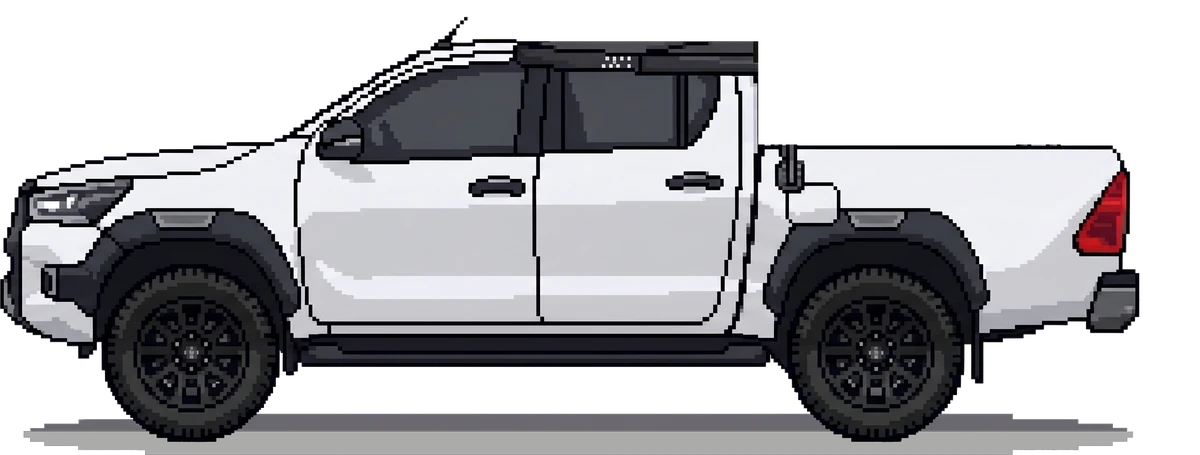
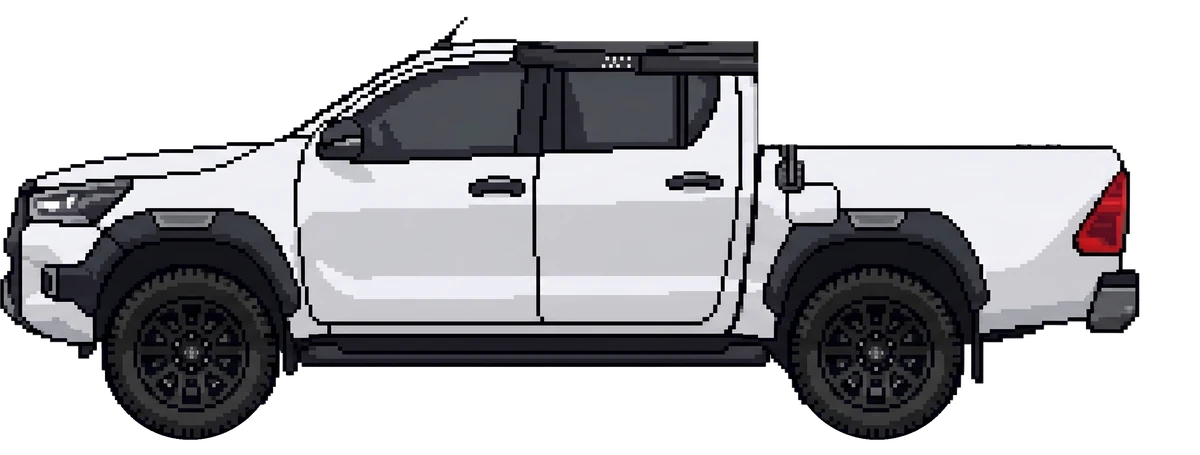
Clean truck shadow; animated sun/moon theme switch
Claude-Session: https://claude.ai/code/session_018MR4xDhWGmSpk8zhGT7tLL

Changed region(s): [[0.0, 0.8923, 0.9558, 1.0]]

diff --git a/src/scripts/scene.ts b/src/scripts/scene.ts
@@ -1,7 +1,7 @@
 // The hero scene: grass, road and Kinabalu (the Hilux itself is an <img> over the canvas, see Hero.astro), day or night. 180×98 canvas, 140ms stepped frames.
 import { Grid } from '../lib/pixel';
 import { cup, pine } from '../lib/sprites';
-import { css, isNight } from './theme';
+import { isNight } from './theme';
 
 const ridge = [[52, 92], [70, 72], [84, 58], [94, 60], [102, 44], [110, 48], [116, 34], [122, 40], [128, 28], [134, 36], [140, 26], [146, 33], [152, 30], [160, 42], [170, 38], [180, 52], [196, 58], [214, 70], [240, 76]];
 const heightAt = (x: number) => {
@@ -16,7 +16,7 @@ const stars = Array.from({ length: 40 }, (_, i) => [(i * 53) % 240, 18 + ((i * 2
 
 export function initScene(canvas: HTMLCanvasElement | null) {
   const sx = canvas?.getContext('2d');
-  if (!canvas || !sx) return { redraw() {} };
+  if (!canvas || !sx) return { redraw() {}, setNight(_n: boolean) {} };
   const reduce = matchMedia('(prefers-reduced-motion: reduce)').matches;
   const p1 = pine(12, '#2b5615', '#244a12'), p2 = pine(9, '#4f7a2c', '#2b5615');
   p1.outline('#12120d'); p2.outline('#12120d');
@@ -30,36 +30,51 @@ export function initScene(canvas: HTMLCanvasElement | null) {
     g.draw(sx!, Math.round(x), Math.round(y));
   }
 
+  // Day ↔ night blend: 0 = day, 1 = night. Switching theme animates it: the sun sinks behind the
+  // mountain, then the moon rises, while the sky and ground colours fade across.
+  let t = isNight() ? 1 : 0;
+  let anim = 0;
+  const mix = (a: string, b: string) => {
+    const pa = parseInt(a.slice(1), 16), pb = parseInt(b.slice(1), 16);
+    const ch = (sh: number) => Math.round(((pa >> sh) & 255) * (1 - t) + ((pb >> sh) & 255) * t);
+    return `rgb(${ch(16)},${ch(8)},${ch(0)})`;
+  };
+  const ease = (v: number) => v * v * (3 - 2 * v);
+
   function draw() {
     const ctx = sx!;
-    const night = isNight(); const W = 240, H = 120;
+    const W = 240, H = 120;
     ctx.setTransform(1, 0, 0, 1, -40, -18);
-    ctx.fillStyle = css('sky'); ctx.fillRect(0, 0, W, H);
-    if (night) {
-      ctx.fillStyle = '#f4ebcd'; stars.forEach(([x, y], i) => { if ((i + (frame >> 3)) % 7) ctx.fillRect(x, y, 1, 1); });
-      const m = Grid(14, 14); m.disc(7, 7, 6, '#f4ebcd'); m.disc(10, 5, 5, null); m.draw(ctx, 48, 22);
+    ctx.fillStyle = mix('#8ad8d8', '#1f2b45'); ctx.fillRect(0, 0, W, H);
+    // stars fade in late
+    if (t > 0.6) { ctx.fillStyle = `rgba(244,235,205,${((t - 0.6) / 0.4).toFixed(2)})`; stars.forEach(([x, y], i) => { if ((i + (frame >> 3)) % 7) ctx.fillRect(x, y, 1, 1); }); }
+    // sun sets during the first half, moon rises in the second (both slip behind the hills)
+    if (t < 0.5) {
+      const dy = Math.round(ease(t / 0.5) * 80);
+      const s2 = Grid(22, 22); s2.disc(11, 11, 5, '#f2c94c');
+      [[11, 1], [11, 2], [11, 20], [11, 19], [1, 11], [2, 11], [20, 11], [19, 11], [4, 4], [18, 4], [4, 18], [18, 18]].forEach(([x, y]) => s2.set(x, y, '#f2c94c'));
+      s2.draw(ctx, 42, 18 + dy);
     } else {
-      const s = Grid(22, 22); s.disc(11, 11, 5, '#f2c94c');
-      [[11, 1], [11, 2], [11, 20], [11, 19], [1, 11], [2, 11], [20, 11], [19, 11], [4, 4], [18, 4], [4, 18], [18, 18]].forEach(([x, y]) => s.set(x, y, '#f2c94c'));
-      s.draw(ctx, 42, 18);
+      const dy = Math.round((1 - ease((t - 0.5) / 0.5)) * 80);
+      const m = Grid(14, 14); m.disc(7, 7, 6, '#f4ebcd'); m.disc(10, 5, 5, null); m.draw(ctx, 48, 22 + dy);
     }
-    clouds.forEach(([x, y, sp]) => cloud(((x + frame * sp * 0.25) % 280) - 30, y, night ? '#3a4a66' : '#f0f8f0'));
+    clouds.forEach(([x, y, sp]) => cloud(((x + frame * sp * 0.25) % 280) - 30, y, mix('#f0f8f0', '#3a4a66')));
     // mountain
-    const mt = css('slate');
+    const mt = mix('#455976', '#3c4c68');
     for (let x = 52; x < W; x++) { const h = heightAt(x); ctx.fillStyle = mt; ctx.fillRect(x, h, 1, 96 - h); ctx.fillStyle = '#12120d'; ctx.fillRect(x, h, 1, 1); }
-    ctx.fillStyle = night ? '#2d3a52' : '#5d7194';
+    ctx.fillStyle = mix('#5d7194', '#2d3a52');
     [[100, 52, 10], [126, 38, 8], [148, 40, 10], [172, 50, 9]].forEach(([x, y, l]) => { for (let i = 0; i < l; i++) ctx.fillRect(x + (i >> 1), y + i, 1, 1); });
     // cloud band at the mountain base
-    ctx.fillStyle = night ? '#3a4a66' : '#f0f8f0';
+    ctx.fillStyle = mix('#f0f8f0', '#3a4a66');
     for (let x = 40; x < W; x++) { const y = 82 + Math.round(Math.sin(x / 7) * 2); ctx.fillRect(x, y, 1, 8); }
     // tree line
     [[36, 76], [46, 80], [184, 79], [196, 74], [208, 80]].forEach(([x, y], i) => (i % 2 ? p2 : p1).draw(ctx, x, y));
     // ground, road
-    ctx.fillStyle = night ? '#4c5f2c' : '#7fae45'; ctx.fillRect(0, 92, W, 28);
-    ctx.fillStyle = night ? '#3a4a22' : '#66882d';
+    ctx.fillStyle = mix('#7fae45', '#4c5f2c'); ctx.fillRect(0, 92, W, 28);
+    ctx.fillStyle = mix('#66882d', '#3a4a22');
     for (let i = 0; i < 70; i++) { const x = (i * 37) % W, y = 95 + ((i * 11) % 24); ctx.fillRect(x, y, 1, 2); ctx.fillRect(x + 1, y + 1, 1, 1); }
-    ctx.fillStyle = night ? '#5a4632' : '#c9a27a'; ctx.fillRect(0, 108, W, 6);
-    ctx.fillStyle = night ? '#4a3a2a' : '#b08560'; for (let x = 0; x < W; x += 9) ctx.fillRect(x, 110, 4, 1);
+    ctx.fillStyle = mix('#c9a27a', '#5a4632'); ctx.fillRect(0, 108, W, 6);
+    ctx.fillStyle = mix('#b08560', '#4a3a2a'); for (let x = 0; x < W; x += 9) ctx.fillRect(x, 110, 4, 1);
     ctx.fillStyle = '#12120d'; ctx.fillRect(0, 92, W, 1);
     sign.draw(ctx, 70, 96);
     stool.draw(ctx, 172, 99); stool.draw(ctx, 186, 101);
@@ -68,5 +83,18 @@ export function initScene(canvas: HTMLCanvasElement | null) {
 
   draw();
   if (!reduce) setInterval(() => { frame++; draw(); }, 140);
-  return { redraw: draw };
+  /** Animate to day or night (instant under reduced motion). */
+  function setNight(night: boolean) {
+    const target = night ? 1 : 0;
+    cancelAnimationFrame(anim);
+    if (reduce) { t = target; draw(); return; }
+    const from = t, start = performance.now(), dur = 1600 * Math.abs(target - from);
+    const step = (now: number) => {
+      const k = Math.min(1, (now - start) / Math.max(1, dur));
+      t = from + (target - from) * k; draw();
+      if (k < 1) anim = requestAnimationFrame(step);
+    };
+    anim = requestAnimationFrame(step);
+  }
+  return { redraw: draw, setNight };
 }

diff --git a/src/styles/global.css b/src/styles/global.css
@@ -24,3 +24,9 @@ section { padding: var(--space-20) 0; }
    truck drives across its road, then the page carries on (scripts/story.ts sets the sizes). */
 html.story .pin-track { height: calc(var(--sec-h, 0px) + var(--pin, 0px)); }
 html.story .pin-track > section { position: sticky; top: var(--pin-top, 0px); }
+
+/* Theme switch: colours fade for a moment while the hero sky animates (index.astro adds .theme-fade). */
+html.theme-fade, html.theme-fade *, html.theme-fade *::before, html.theme-fade *::after {
+  transition: background-color 1s ease, color 1s ease, border-color 1s ease, fill 1s ease !important;
+}
+@media (prefers-reduced-motion: reduce) { html.theme-fade, html.theme-fade * { transition: none !important; } }
